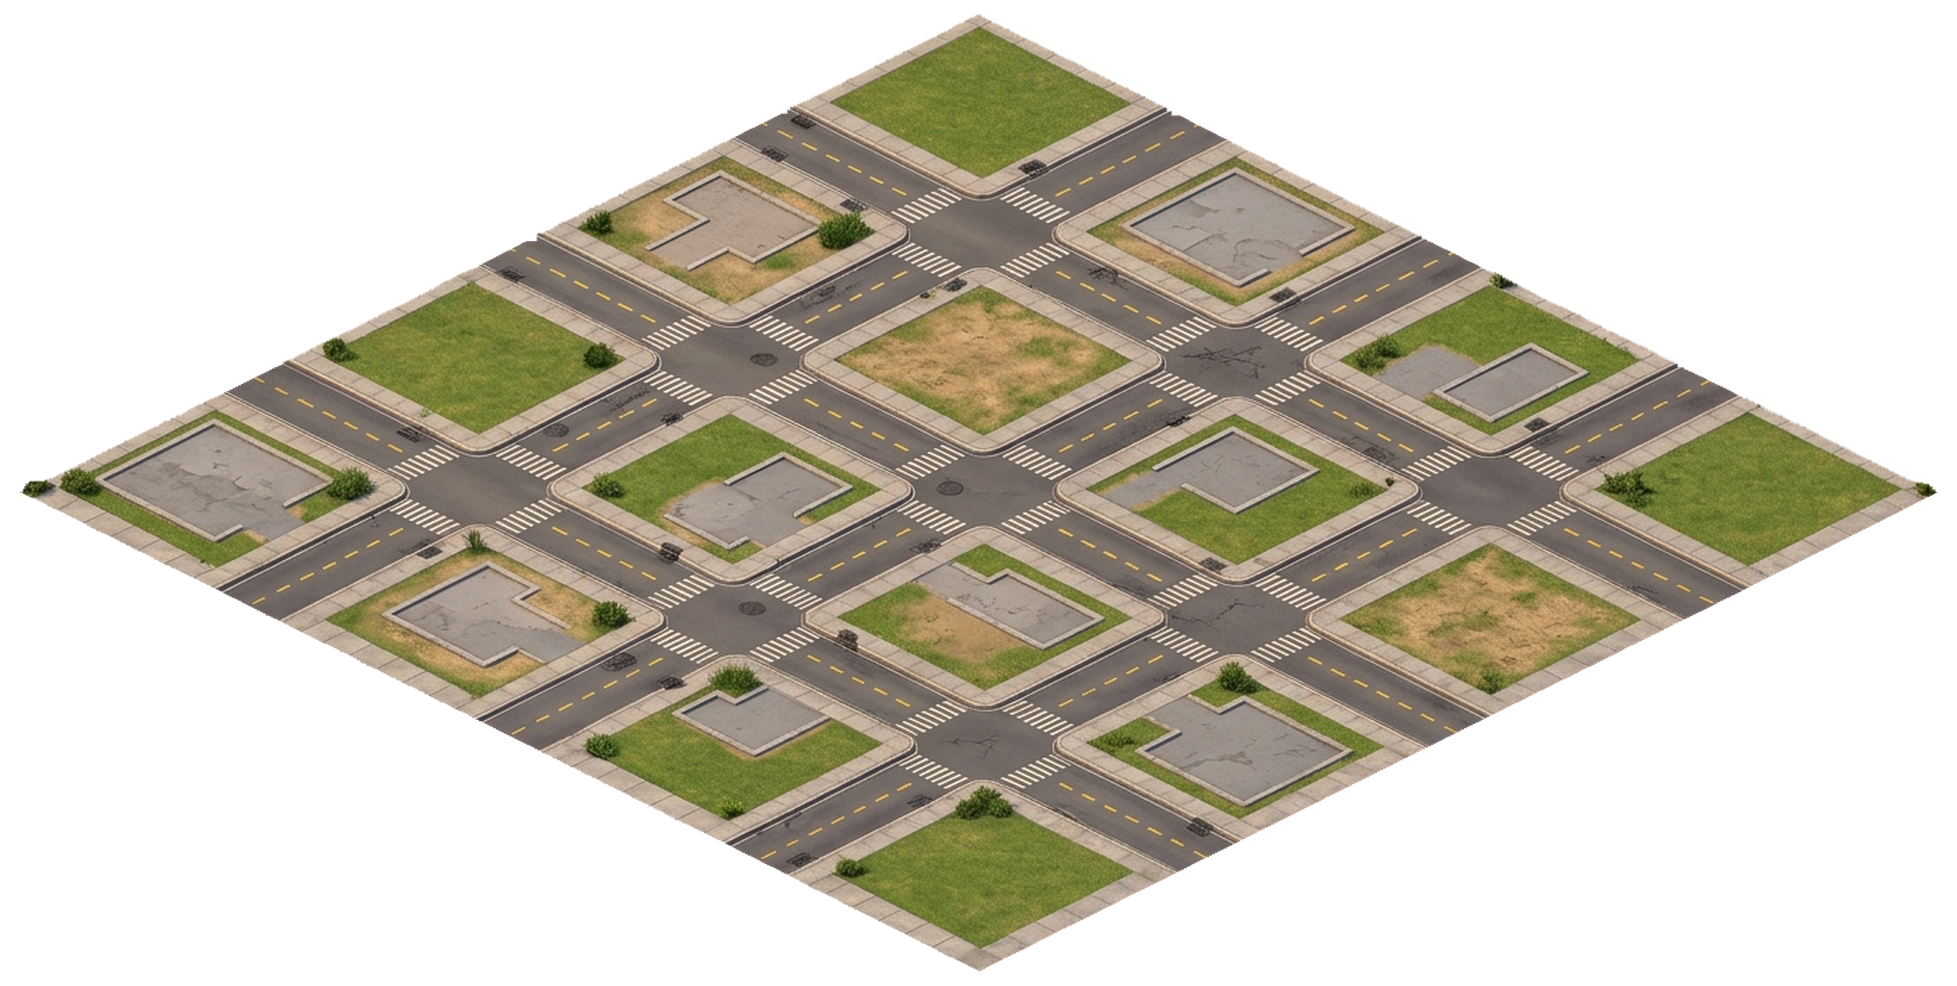
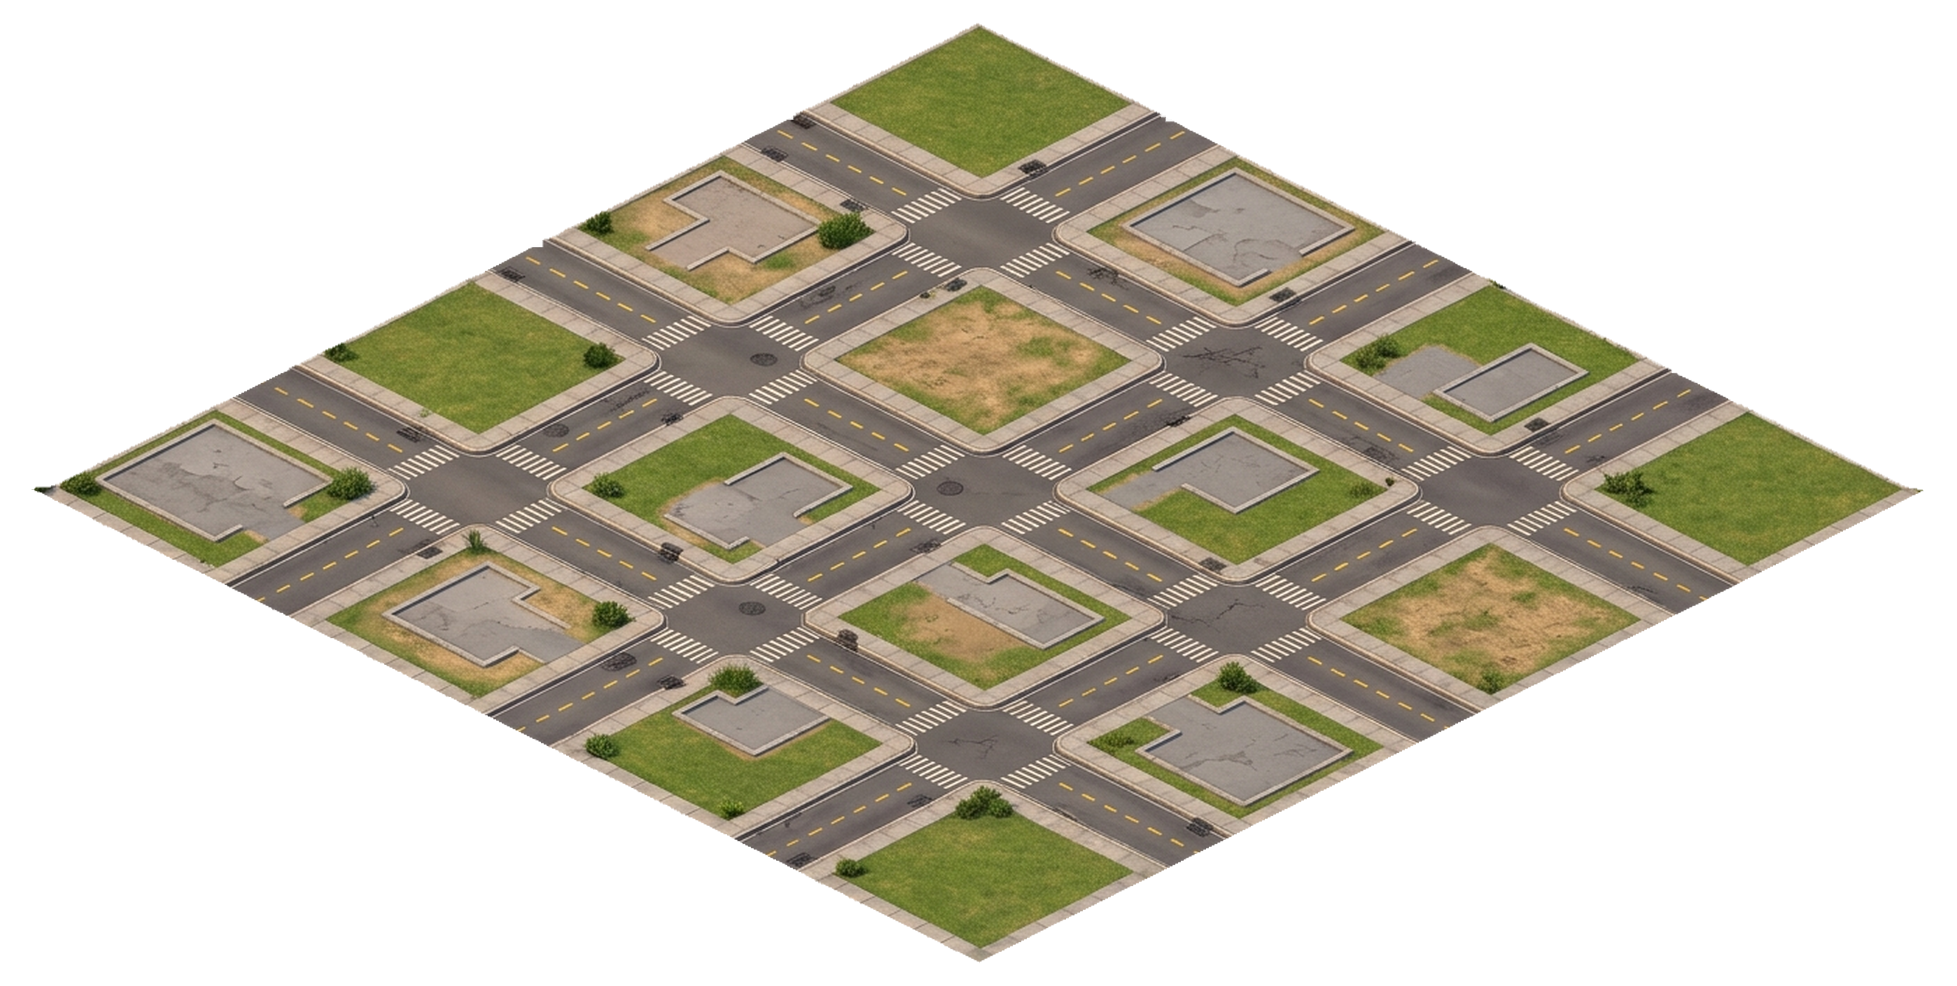
Zentralen Diamanten beschnitten: ~16px erodiert entfernt die dunkle 3D-Sockelkante (unten/rechts) + hellen Rand; alle Kacheln nutzen jetzt die beschnittene Variante -> flacher nahtloser Uebergang zur Umgebung (Innenflaechen/Strassen unberuehrt)

diff --git a/script.js b/script.js
@@ -6,7 +6,7 @@
 
 // Sichtbare Build-Marke: zeigt im Header "v7", sobald DIESE Datei geladen ist.
 // Bleibt im Header "v6" stehen, läuft noch eine alte (gecachte) script.js.
-const BUILD_MARKE = 'v68 – Naht weg';
+const BUILD_MARKE = 'v69 – 3D-Kante weg';
 
 // Einheitliche Anzeigehöhen der Figuren (px). Werden auf jede Pose angewandt,
 // damit Front-/Seiten-Sheets gleich groß wirken (unabhängig von der Sheet-Höhe).
@@ -5802,9 +5802,10 @@ function zeichneAlleGebaeude(scene, tileW, tileH, offsetX, offsetY) {
         const bx = cx + i * Ax + j * Bx;
         const by = cy + i * Ay + j * By;
         const os = mitte ? OS_MITTE : OS_RING;
-        // Mitte: Original (saubere Kante). Umgebung: beschnittene Variante
-        // (heller Rand erodiert) → keine „X"-Nähte zwischen den Kacheln.
-        const tex = (!mitte && scene.textures.exists('stadtboden_trim')) ? 'stadtboden_trim' : 'stadtboden';
+        // ALLE Kacheln (auch die Mitte) nutzen die beschnittene Variante:
+        // heller Rand + dunkle 3D-Sockelkante (unten/rechts) sind erodiert
+        // → flacher, nahtloser Übergang. Innenflächen/Straßen bleiben unberührt.
+        const tex = scene.textures.exists('stadtboden_trim') ? 'stadtboden_trim' : 'stadtboden';
         scene.add.image(bx, by, tex)
           .setOrigin(0.5, 0.5).setDisplaySize(feldW * os, feldH * os)
           .setDepth(mitte ? -19 : -20);   // Umgebung hinter allem
